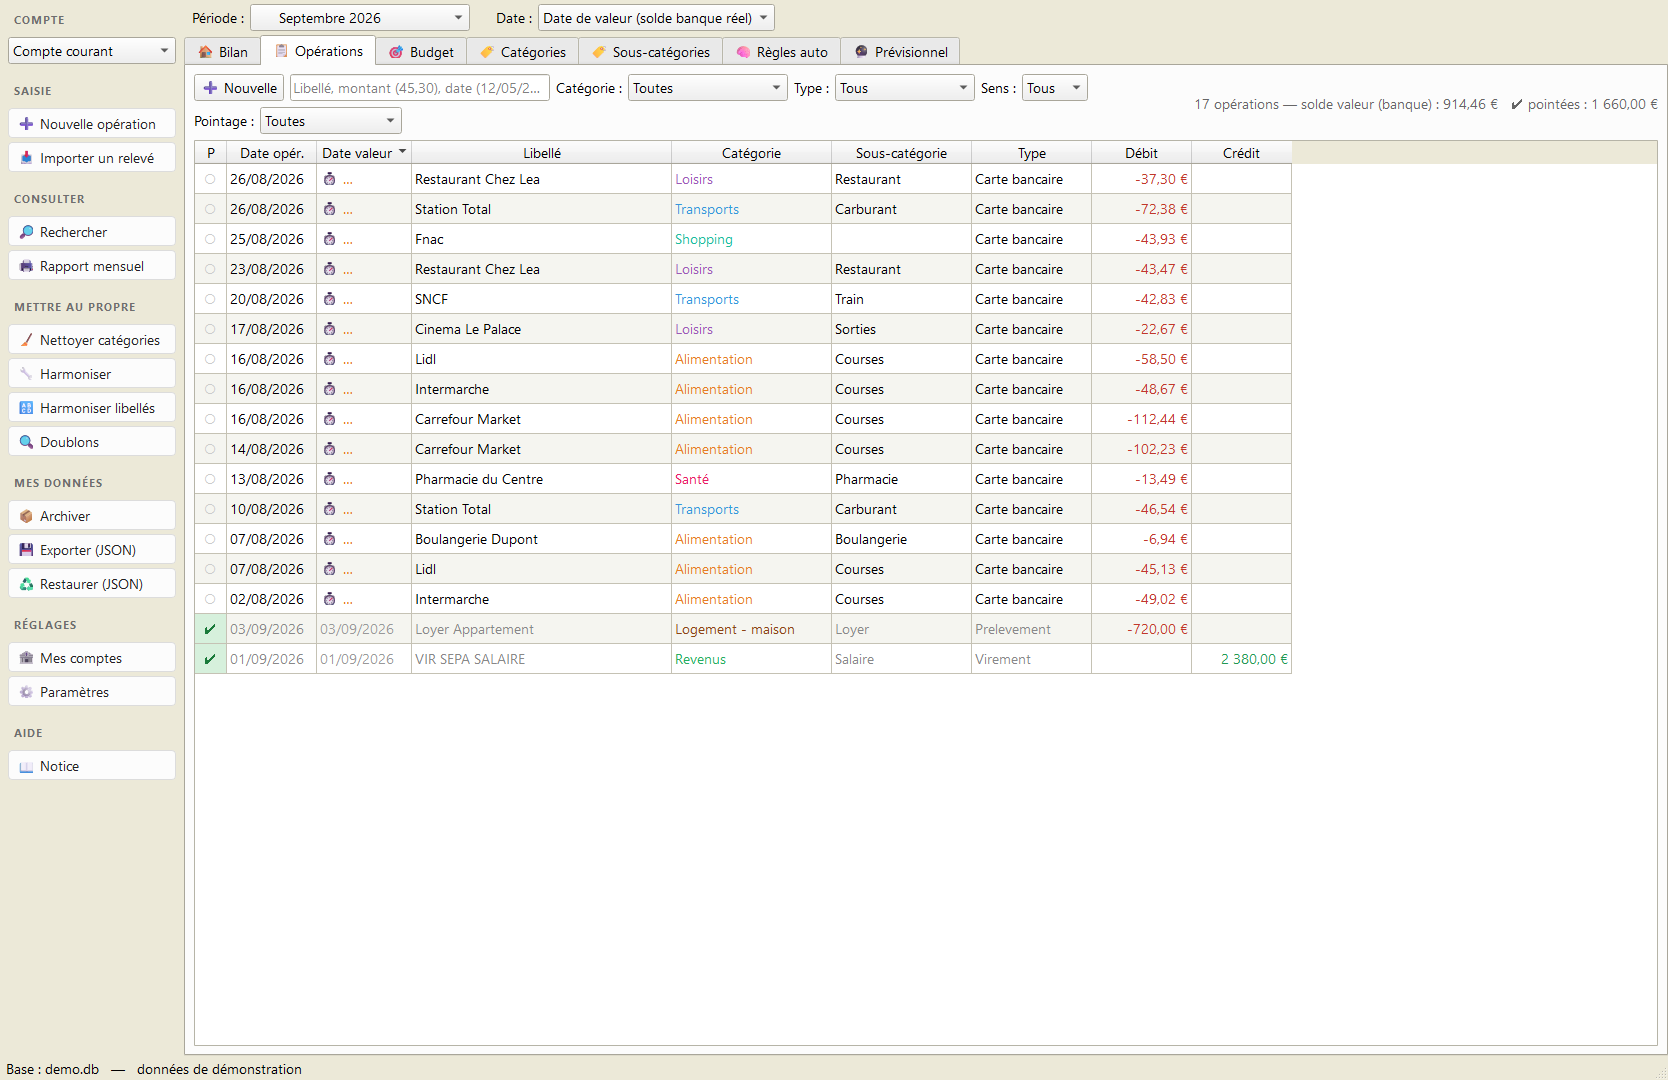
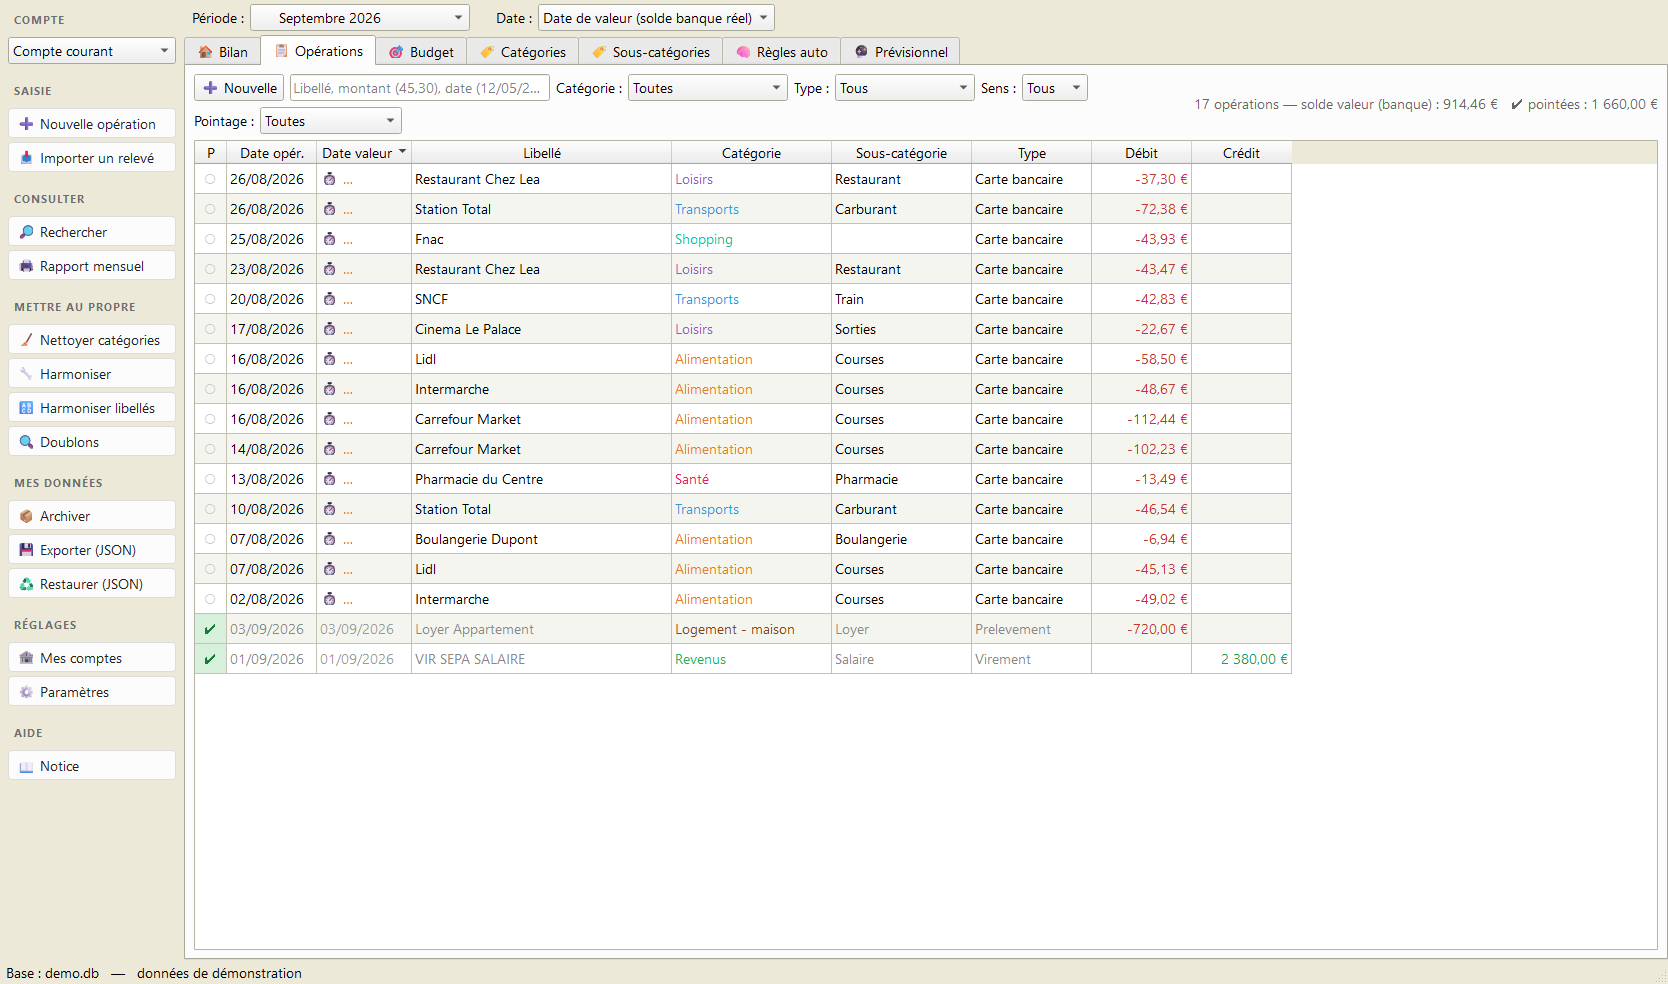
Une hauteur de capture par onglet, au lieu d une seule pour tous
Porter la fenêtre à 1080 px avait réglé la légende coupée du Bilan, mais
agrandi d autant le vide sous les tableaux des autres onglets, dont le contenu
est court : la capture du Budget montrait huit lignes dans une fenêtre aux deux
tiers vide.

Le Bilan garde ses 1080 px, les trois autres reviennent à 984 — la hauteur
minimale de la fenêtre, sous laquelle Qt refuse de descendre. Le vide qui
subsiste sur le Budget est structurel : le menu de gauche descend plus bas que
le tableau, et c est ce que voit réellement l utilisateur.

diff --git a/outils/captures_promo.py b/outils/captures_promo.py
@@ -34,17 +34,17 @@ from comptesbudget.database import Database               # noqa: E402
 from comptesbudget.ui.main_window import MainWindow       # noqa: E402
 
 AUJOURDHUI = date.today()
-LARGEUR, HAUTEUR = 1668, 1080         # taille demandée ; la fenêtre peut être
-                                      # un peu plus grande (taille minimale).
-                                      # 913 suffisait jusqu'à la 1.23.x ; le
-                                      # Bilan a grandi depuis (menu de gauche
-                                      # avec ses titres de sections, bandeaux
-                                      # d'information) et la légende du
-                                      # graphique d'évolution se retrouvait
-                                      # coupée en bas de la capture — sans que
-                                      # l'application y soit pour quelque
-                                      # chose, elle l'affiche bien dès que la
-                                      # fenêtre est assez haute.
+LARGEUR = 1668
+# Une hauteur par onglet, et non une seule pour tous. Le Bilan a besoin de
+# place : il a grandi avec les versions (menu de gauche à sections, bandeaux
+# d'information) et, en dessous de 1080, la légende de son graphique
+# d'évolution se retrouve coupée — l'application n'y est pour rien, elle
+# l'affiche bien dès que la fenêtre est assez haute. Les autres onglets, eux,
+# ont un contenu court : leur donner la même hauteur ne ferait qu'agrandir le
+# vide sous leur tableau. On leur laisse donc la hauteur MINIMALE de la
+# fenêtre (984 px), sous laquelle Qt refuse de descendre.
+HAUTEUR_BILAN = 1080
+HAUTEUR_AUTRES = 984
 GRAINE = 20260809                     # captures reproductibles
 
 # ── Le jeu de données inventé ────────────────────────────────────────────────
@@ -214,7 +214,7 @@ def photographier(db, dossier):
     app.setPalette(pal)
 
     w = MainWindow(db)
-    w.resize(LARGEUR, HAUTEUR)
+    w.resize(LARGEUR, HAUTEUR_BILAN)
     w.statusBar().showMessage("Base : demo.db   —   données de démonstration")
     w.show()
     _laisser_dessiner(app, 1.5)
@@ -223,6 +223,8 @@ def photographier(db, dossier):
             ("promo_3_budget", w.budget_view), ("promo_4_previsionnel", w.prev_view)]
     os.makedirs(dossier, exist_ok=True)
     for nom, vue in vues:
+        w.resize(LARGEUR, HAUTEUR_BILAN if vue is w.bilan_view
+                 else HAUTEUR_AUTRES)
         w.tabs.setCurrentWidget(vue)
         for methode in ("refresh", "reload_from_db"):
             if hasattr(vue, methode):
